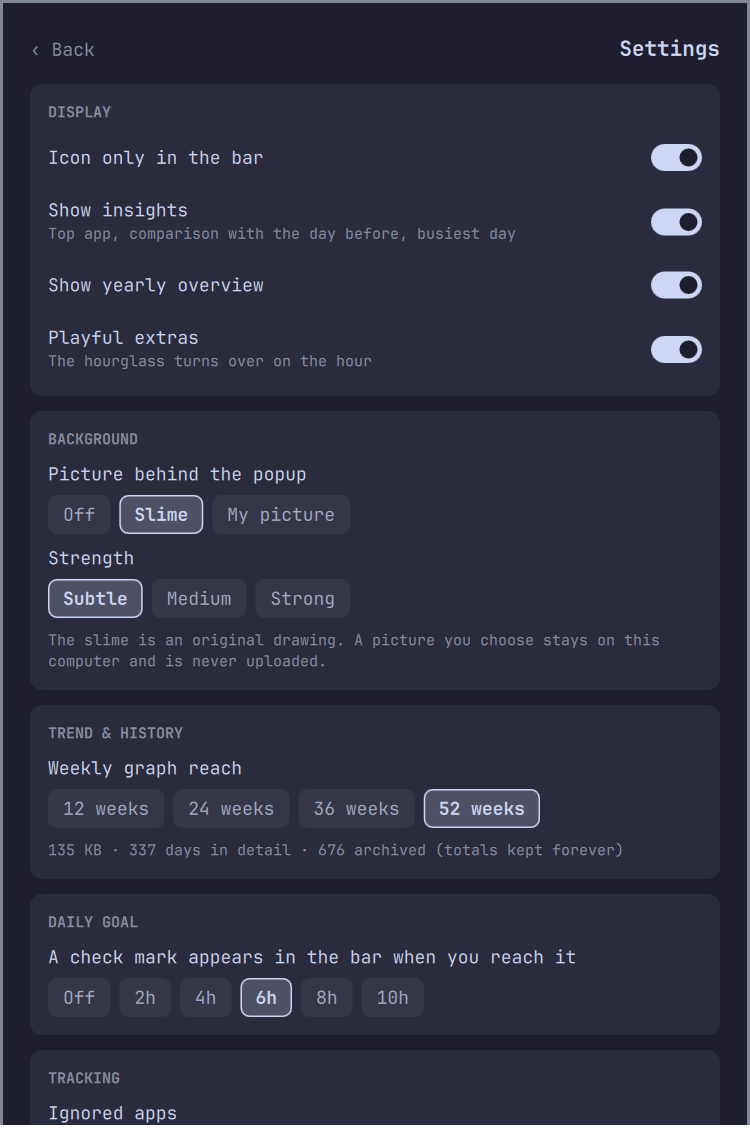
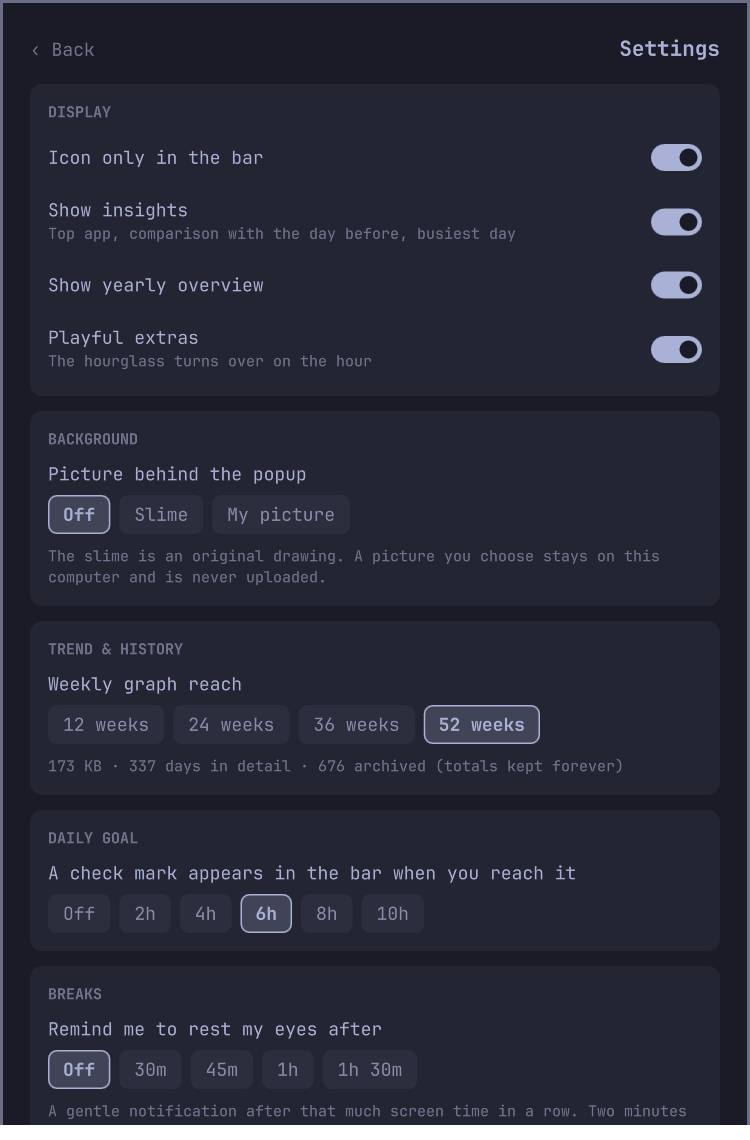
Refresh README screenshots for 0.8.0
The pictures were from 0.6 and missed limits, projects and breaks. They are
rendered from the preview's made-up data in Tokyo Night. The preview now
uses Omarchy's load pragma, without which Qt 6.12 resolved the theme's
Color to QtQuick's own type and every preview rendered unthemed.

diff --git a/tools/preview/shell.qml b/tools/preview/shell.qml
@@ -1,3 +1,6 @@
+//@ pragma OmarchyLoadPatch
+// Like Omarchy's own shell.qml: without this, Qt 6.12+ resolves a bare `Color` to
+// QtQuick's type instead of the theme in qs.Commons, and previews lose the theme.
 import QtQuick
 import Quickshell
 import Quickshell.Wayland
